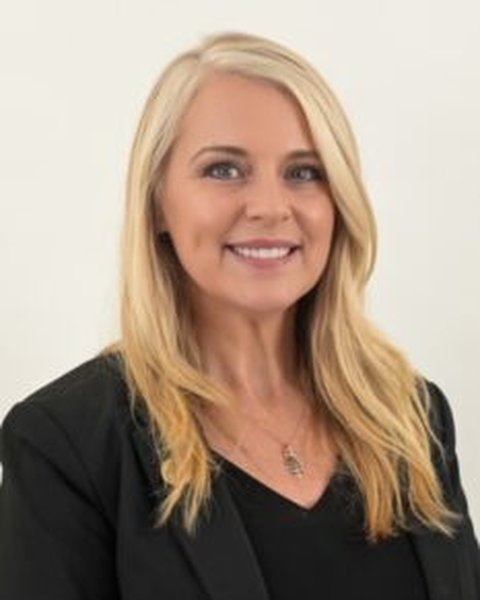
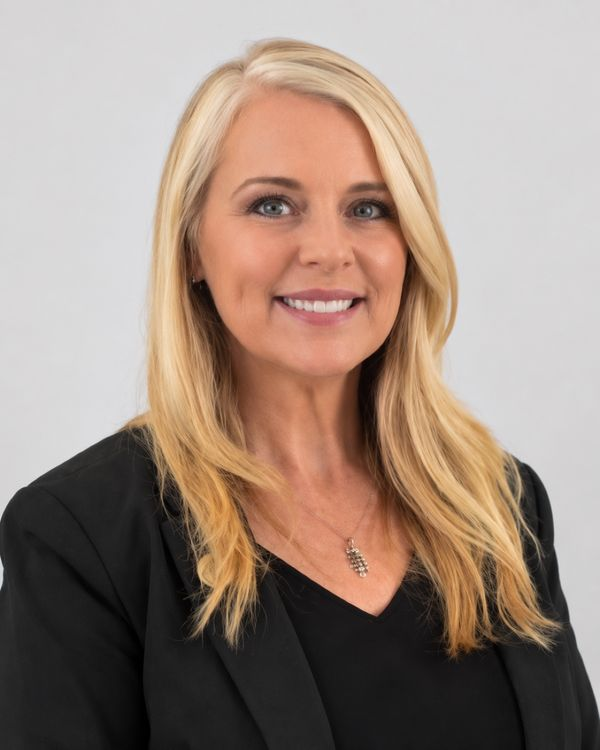
Update Dean Dani Wilson's photo to match the faculty headshot standard
Claude-Session: https://claude.ai/code/session_01FHfE3aaeqDcTbfARJxcFUW

diff --git a/CHECKLIST.md b/CHECKLIST.md
@@ -12,7 +12,7 @@ Last updated: October 19, 2026. Check items off as they are confirmed.
 - [ ] Faculty roster (82 names from the old directory): remove anyone who has left and add new hires
 - [x] Laura Melella removed from the CIS page (October 19)
 - [ ] Jane Troop: Business Management (directory) or CIS (old CIS page)?
-- [ ] Dean Dr. Dani Wilson: direct phone line? A larger photo with a gray background?
+- [ ] Dean Dr. Dani Wilson: direct phone line? (new gray-background photo added October 19)
 - [ ] Paralegal coordinator phone: (714) 992-7208
 - [ ] Counselors (Barajas, Castillo, Nguyen, Skiles) and Fall hours
 
